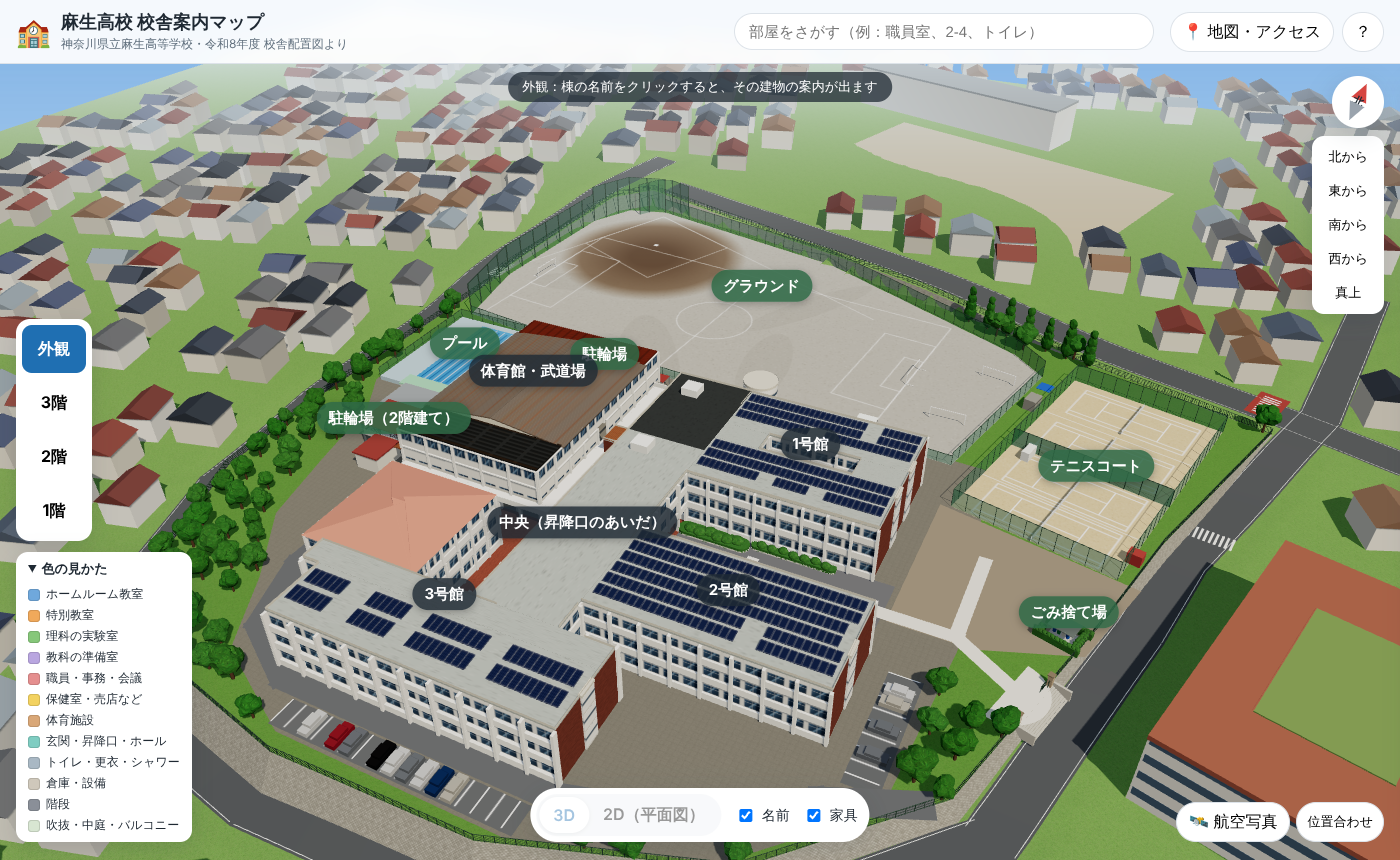
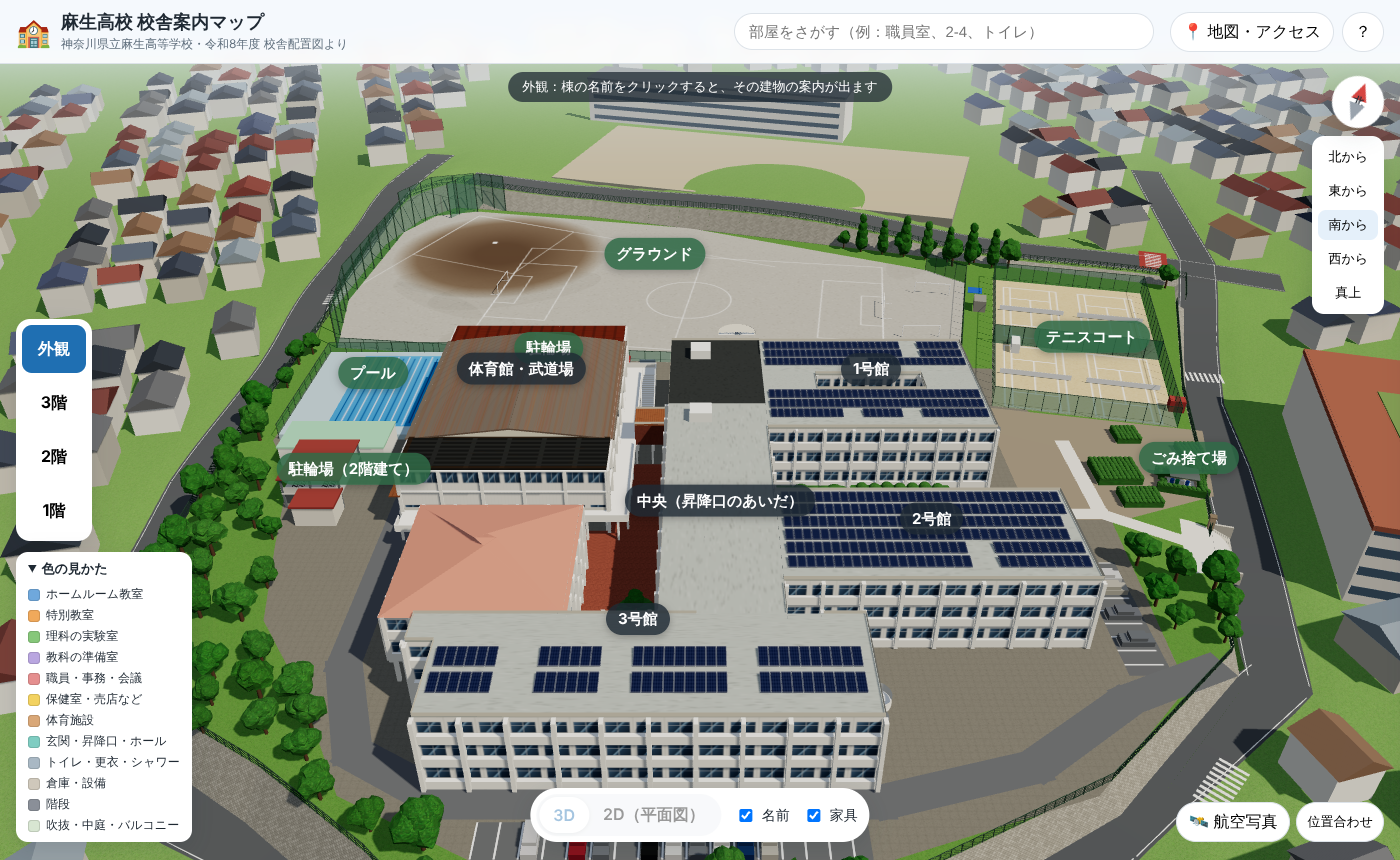
中学校、テニスコートの向き、植え込み、駐輪場の位置、南の庭園と敷地の形
- グラウンドの北の道路のすぐ向こうに金程中学校（グラウンドと校舎）。あいだの家はなくした
- テニスコートの向き：ネットが区画を分けるフェンスと平行（コートは南北むき）
- テニスコート南のごみ捨て場あたりに植え込み
- プール南の赤い屋根の駐輪場を、写真で測り直して西の植え込みのとなりへ。灰色の屋根はプールの更衣室
- 南の駐車場のうしろに庭園（レンガ敷き・木）。写真に合わせて南の敷地と道路を約15m南へ広げた

Claude-Session: https://claude.ai/code/session_01M9wHQs55mZUAc8DpBE4YQk

diff --git a/js/site.js b/js/site.js
@@ -236,20 +236,19 @@ function buildTennisArea({ w, d }) {
     c.fillStyle = "#d8c39a"; c.fillRect(0, 0, W, H);
     for (let i = 0; i < 9000; i++) { c.fillStyle = `rgba(${Math.random() > 0.5 ? "255,255,255" : "120,90,50"},${Math.random() * 0.1})`; c.fillRect(Math.random() * W, Math.random() * H, 2, 2); }
     c.strokeStyle = "rgba(255,255,255,0.95)"; c.lineWidth = 2;
+    // 写真：ネットは区画を分けるフェンスと平行（東西むき）。コートの長い向きは南北で、2面が東西にならぶ
     for (let k = 0; k < 2; k++) {
-      const cy = (H / 2) * (k + 0.5), cx = W / 2;
-      const L = 23.77 * S, Wd = 10.97 * S, si = 1.37 * S, sv = 6.4 * S;
-      c.strokeRect(cx - L / 2, cy - Wd / 2, L, Wd);
+      const cx = (W / 2) * (k + 0.5), cy = H / 2;
+      const L = Math.min(23.77 * S, H - 8), Wd = 10.97 * S, si = 1.37 * S, sv = 6.4 * S * (L / (23.77 * S));
+      c.strokeRect(cx - Wd / 2, cy - L / 2, Wd, L);
       c.beginPath();
-      c.moveTo(cx - L / 2, cy - Wd / 2 + si); c.lineTo(cx + L / 2, cy - Wd / 2 + si);
-      c.moveTo(cx - L / 2, cy + Wd / 2 - si); c.lineTo(cx + L / 2, cy + Wd / 2 - si);
-      c.moveTo(cx - sv, cy - Wd / 2 + si); c.lineTo(cx - sv, cy + Wd / 2 - si);
-      c.moveTo(cx + sv, cy - Wd / 2 + si); c.lineTo(cx + sv, cy + Wd / 2 - si);
-      c.moveTo(cx - sv, cy); c.lineTo(cx + sv, cy);
+      c.moveTo(cx - Wd / 2 + si, cy - L / 2); c.lineTo(cx - Wd / 2 + si, cy + L / 2);
+      c.moveTo(cx + Wd / 2 - si, cy - L / 2); c.lineTo(cx + Wd / 2 - si, cy + L / 2);
+      c.moveTo(cx - Wd / 2 + si, cy - sv); c.lineTo(cx + Wd / 2 - si, cy - sv);
+      c.moveTo(cx - Wd / 2 + si, cy + sv); c.lineTo(cx + Wd / 2 - si, cy + sv);
+      c.moveTo(cx, cy - sv); c.lineTo(cx, cy + sv);
       c.stroke();
     }
-    c.strokeStyle = "rgba(255,255,255,0.6)";
-    c.beginPath(); c.moveTo(0, H / 2); c.lineTo(W, H / 2); c.stroke();
   });
   const p = new THREE.Mesh(new THREE.PlaneGeometry(w, d), new THREE.MeshStandardMaterial({ map: tex, roughness: 1 }));
   p.rotation.x = -Math.PI / 2;
@@ -258,8 +257,8 @@ function buildTennisArea({ w, d }) {
   g.add(p);
   const netMat = M(0xf2f2f2);
   for (const k of [-1, 1]) {
-    const net = new THREE.Mesh(new THREE.BoxGeometry(0.04, 1.0, 12.8), netMat);
-    net.position.set(0, 0.5, (k * d) / 4);
+    const net = new THREE.Mesh(new THREE.BoxGeometry(12.8, 1.0, 0.04), netMat);
+    net.position.set((k * w) / 4, 0.5, 0);
     net.castShadow = true;
     g.add(net);
   }
@@ -576,16 +575,29 @@ export function buildNeighborJHS({ ground, building }) {
   const [gx, gz, gw, gd, rot] = ground;
   const gm = new THREE.Mesh(new THREE.PlaneGeometry(gw, gd), M(0xc4b59a, { roughness: 1 }));
   gm.rotation.order = "YXZ"; gm.rotation.set(-Math.PI / 2, THREE.MathUtils.degToRad(rot), 0);
-  gm.position.set(gx, terrainH(gx, gz) - 0.15, gz);
+  // 斜面でも地面に埋もれないよう、四すみでいちばん高い所に合わせて平らな箱にする
+  const a = THREE.MathUtils.degToRad(rot);
+  const hs = [[-1, -1], [1, -1], [1, 1], [-1, 1]].map(([i, j]) => terrainH(gx + (i * gw / 2) * Math.cos(a) + (j * gd / 2) * Math.sin(a), gz - (i * gw / 2) * Math.sin(a) + (j * gd / 2) * Math.cos(a)));
+  const top = Math.max(...hs) - 0.15, bot = Math.min(...hs) - 1;
+  gm.position.set(gx, top, gz);
+  const pad = new THREE.Mesh(new THREE.BoxGeometry(gw, top - bot, gd), M(0x9a9a8e, { roughness: 1 }));
+  pad.position.set(gx, (top + bot) / 2 - 0.02, gz); pad.rotation.y = a;
+  g.add(pad);
   g.add(gm);
   const [bx, bz, bw, bd, h, brot] = building;
   const body = new THREE.Mesh(new THREE.BoxGeometry(bw, h, bd), M(0xeeebe4));
   body.position.set(bx, terrainH(bx, bz) - 0.25 + h / 2, bz);
   body.rotation.y = THREE.MathUtils.degToRad(brot);
-  const top = new THREE.Mesh(new THREE.BoxGeometry(bw + 0.4, 0.6, bd + 0.4), M(0x9aa0a4));
-  top.position.set(bx, terrainH(bx, bz) - 0.25 + h, bz);
-  top.rotation.y = body.rotation.y;
-  for (const m of [body, top]) { m.castShadow = m.receiveShadow = true; g.add(m); }
+  const cap = new THREE.Mesh(new THREE.BoxGeometry(bw + 0.4, 0.6, bd + 0.4), M(0x9aa0a4));
+  cap.position.set(bx, terrainH(bx, bz) - 0.25 + h, bz);
+  cap.rotation.y = body.rotation.y;
+  for (const m of [body, cap]) { m.castShadow = m.receiveShadow = true; g.add(m); }
+  // 窓の帯（4階分）
+  for (let k = 0; k < 4; k++) {
+    const w = new THREE.Mesh(new THREE.BoxGeometry(bw + 0.06, 1.2, bd + 0.06), M(0x5d7184, { roughness: 0.4 }));
+    w.position.set(bx, terrainH(bx, bz) - 0.25 + 1.6 + k * 3.1, bz); w.rotation.y = body.rotation.y; w.scale.x = 0.96;
+    g.add(w);
+  }
   return g;
 }
 
@@ -903,6 +915,22 @@ export function buildSite(scene, SITE) {
       group.add(seg);
       for (let t = 0; t <= L; t += 3) rects.push([ax + (bx - ax) * t / L - 3.5, ax + (bx - ax) * t / L + 3.5, az + (bz - az) * t / L - 3.5, az + (bz - az) * t / L + 3.5]);
     }
+  }
+  // 植え込み
+  for (const [x0, x1, z0, z1, h] of SITE.hedges || []) {
+    const hb = hedgeBox(x1 - x0, h, z1 - z0); hb.position.set((x0 + x1) / 2, -0.2, (z0 + z1) / 2); group.add(hb);
+    rects.push([x0 - 1, x1 + 1, z0 - 1, z1 + 1]);
+  }
+  // 庭園（レンガ敷き）
+  if (SITE.garden) {
+    const bbG = polyBounds(SITE.garden.poly);
+    const t = canvasTex(256, 256, (c, W, H) => {
+      c.fillStyle = "#9a5a44"; c.fillRect(0, 0, W, H);
+      for (let y = 0, r = 0; y < H; y += 12, r++) for (let x = (r % 2) * 12; x < W; x += 24) { const v = Math.random() * 24 - 12; c.fillStyle = `rgb(${160 + v},${95 + v * 0.6},${75 + v * 0.5})`; c.fillRect(x + 1, y + 1, 22, 10); }
+    });
+    t.wrapS = t.wrapT = THREE.RepeatWrapping; t.repeat.set(3, 3);
+    group.add(flatPoly(SITE.garden.poly, new THREE.MeshStandardMaterial({ map: t, roughness: 1 }), -0.18, bbG));
+    rects.push([bbG.x0, bbG.x1, bbG.z0, bbG.z1]);
   }
   // ごみ捨て場（コンクリートの床、緑の網のかこい、屋根）
   if (SITE.garbage) {

diff --git a/js/info.js b/js/info.js
@@ -199,16 +199,16 @@ export const SITE = {
   pool: {
     deck: [-71, -47.1, -51.8, -22.3],
     water: [-63.8, -48.8, -50, -24.9], // 25m プール
-    house: [-62.3, -47.1, -22.3, -18.9], // プール南端の更衣室など（緑の屋根）
+    house: [-68, -51, -22.3, -14.5], // プールの南どなりの、灰色の屋根の更衣室など
   },
   // 駐輪場：体育館の北側、プールの北東の角のとなりの、赤い屋根の細長い建物（グラウンド側が開いている）
   bikes: { x0: -43.2, x1: -13, z0: -47, z1: -44, roof: 0xa8473d, open: "north" },
   // プールの南どなりの、2階建ての駐輪場（灰色の屋根）
   // 2階建ての駐輪場：プールの南の、赤い屋根の建物（L字の大きいほう）
-  bikes2: { x0: -57.8, x1: -48.8, z0: -10.4, z1: -1.8, roof: 0xa04a40 },
+  // 航空写真で測り直し：西の植え込みのすぐとなり
+  bikes2: { x0: -63.5, x1: -54.4, z0: -13.6, z1: -2.9, roof: 0xa04a40 },
   sheds: [
-    { x0: -54.1, x1: -48.8, z0: -1.8, z1: 4.6, h: 3.4, color: 0xa04a40 },   // 赤い屋根の建物（L字の南の部分）
-    { x0: -60.8, x1: -47.2, z0: -18.9, z1: -11.5, h: 3.4, color: 0x9ea3a6 }, // プールの南どなりの、灰色の屋根の建物（プールの更衣室など）
+    { x0: -60.5, x1: -54.4, z0: -2.9, z1: 1.5, h: 3.4, color: 0xa04a40 },   // 赤い屋根の建物（L字の南の部分）
   ],
   // 駐車場（車をならべる場所）
   parking: [
@@ -216,12 +216,12 @@ export const SITE = {
     { x0: 53.6, x1: 59.1, z0: 10, z1: 32 },  // 2号館の東（階段塔をよけて少し東）
   ],
   // 学校の敷地の外形（道路の内側）。外は住宅地
-  boundary: [[-63, -133], [-28, -126.5], [104, -84], [88, -39], [82, -17], [68, 28], [46, 50], [14, 61], [-20, 62], [-49, 56], [-67, 40], [-77, 15], [-78.5, -15], [-77, -69], [-75, -108], [-70, -125]],
+  boundary: [[-63, -133], [-28, -126.5], [104, -84], [88, -39], [82, -17], [68, 28], [46, 48], [16, 62.5], [-9, 79.5], [-24, 67], [-35, 57], [-50, 46], [-67, 36], [-77, 15], [-78.5, -15], [-77, -69], [-75, -108], [-70, -125]],
   // 舗装（アスファルト）している範囲。それ以外の敷地は植え込み・芝生
   paved: [[-72, -53], [55, -47], [60, -20], [62, 0], [60, 34], [44, 50], [17, 59], [-22, 59], [-40, 50], [-48, 36], [-58, 22], [-62, 6], [-66, -12], [-72, -22]],
   // 道路（中心線）と幅
   roads: [
-    { w: 8, pts: [[-72, -160], [-80.5, -108], [-82, -69], [-83.5, -15], [-82, 15], [-72, 42], [-52, 61], [-20, 67], [15, 66], [50, 55], [74, 30], [87, -17], [92, -39], [113, -95], [125, -160]] },
+    { w: 8, pts: [[-72, -160], [-80.5, -108], [-82, -69], [-83.5, -15], [-82, 15], [-72, 42], [-50, 52], [-36, 62], [-25, 72.5], [-9, 85.5], [18, 68], [45, 52], [74, 30], [87, -17], [92, -39], [113, -95], [125, -160]] },
     { w: 9, pts: [[-60, -140], [-26, -134], [109, -91], [128, -85]] },
   ],
   // 横断歩道（red: 赤く塗った交差点）
@@ -252,6 +252,10 @@ export const SITE = {
   driveway: { w: 4.5, pts: [[-45, -40], [-45, 30], [-40, 44], [-28, 50.8], [20, 50.8], [38, 46], [52, 36], [65, 30.5]] }, // 東の端で道路へ出る（横断歩道のところ）
   // テニスコートの南の、土のままの広場（航空写真）
   dirt: [[50, -33], [86, -25], [80, -6], [64, 0], [50, 0]],
+  // 南の駐車場のうしろの庭園（レンガ敷きの小道と植え込み・木）
+  garden: { poly: [[-16, 58.6], [0, 58.6], [2, 66], [-6, 72], [-14, 70]], trees: [[-12, 62], [-5, 61.5], [-9, 67.5], [-2, 66]] },
+  // テニスコートの南、ごみ捨て場のあたりの植え込み [x0, x1, z0, z1, 高さ]
+  hedges: [[63, 70, -15, -9, 1.6], [65, 71, -7, -3, 1.4], [79, 83, -20, -12, 1.2], [70, 74, -25, -21, 1.3]],
   // テニスコートの南のごみ捨て場
   garbage: { x: 76, z: -9, w: 4, d: 3, rot: -17 }, // 正門の北、道路ぞい。生け垣にかこまれている
   // 北東の並木道（道路の中心線からの距離 6m の両側）
@@ -269,8 +273,9 @@ export const SITE = {
     [94, -50, -2.5],  // 東、テニスコートの横：敷地のほうが高い
     [80, 0, -1.5],    // 東の正門の前：階段で約1.5m下りる
     [70, 35, -3],     // 南東の角
-    [20, 62, -5],     // 南：3号館の前の大きな石積み
-    [-45, 62, -6],    // 南西の角：いちばん高い石積み
+    [18, 70, -5],     // 南：3号館の前の大きな石積み
+    [-9, 90, -6],     // 南のいちばん低いところ
+    [-45, 58, -6],    // 南西の角：いちばん高い石積み
     [-85, 20, -5.5],  // 西：プールの横
     [-88, -40, -3],   // 西：駐輪場の横
     [-85, -95, 1],    // 西：野球のバックネットの横
@@ -278,9 +283,10 @@ export const SITE = {
   // 東の道路の向かいの、川崎市立金程小学校（3D写真より。かんたんな形）
   neighborSchool: { x0: 96, x1: 130, z0: -30, z1: 22, h: 13, rot: -17 },
   // 北の道路の向こうの、川崎市立金程中学校（グラウンド [x, z, 幅, 奥行き, 回転]、校舎 [x, z, 幅, 奥行き, 高さ, 回転]。おおよそ）
-  neighborJHS: { ground: [20, -190, 95, 60, -17], building: [0, -245, 75, 15, 13, -17] },
+  // グラウンドの北の道路のすぐ向こう
+  neighborJHS: { ground: [18, -153, 105, 50, -17], building: [6, -198, 80, 15, 13, -17] },
   // 家をおかない場所 [x0, x1, z0, z1]（となりの学校など）
-  avoid: [[92, 160, -60, 40], [-45, 85, -275, -150]],
+  avoid: [[92, 160, -60, 40], [-75, 90, -270, -118]],
 };
 
 export const SITE_INFO = [

diff --git a/js/app.js b/js/app.js
@@ -1145,6 +1145,8 @@ scene.add(trees);
   }
   // 体育館と校舎のあいだの広場の丸い植え込みの木
   spots.push([-8.6, 20.5, 0.75], [-7.8, 27, 0.75]);
+  // 庭園の木
+  for (const [x, z] of SITE.garden?.trees || []) spots.push([x, z, 0.7]);
   // 木（葉のかたまりを重ねた形）と、並木の細長い木
   trees.add(buildTrees(spots.map(([x, z, sc]) => [x, 0, z, sc * 0.85])));
   trees.add(buildColumnTrees(columnar.map(([x, z, sc]) => [x, 0, z, sc])));
